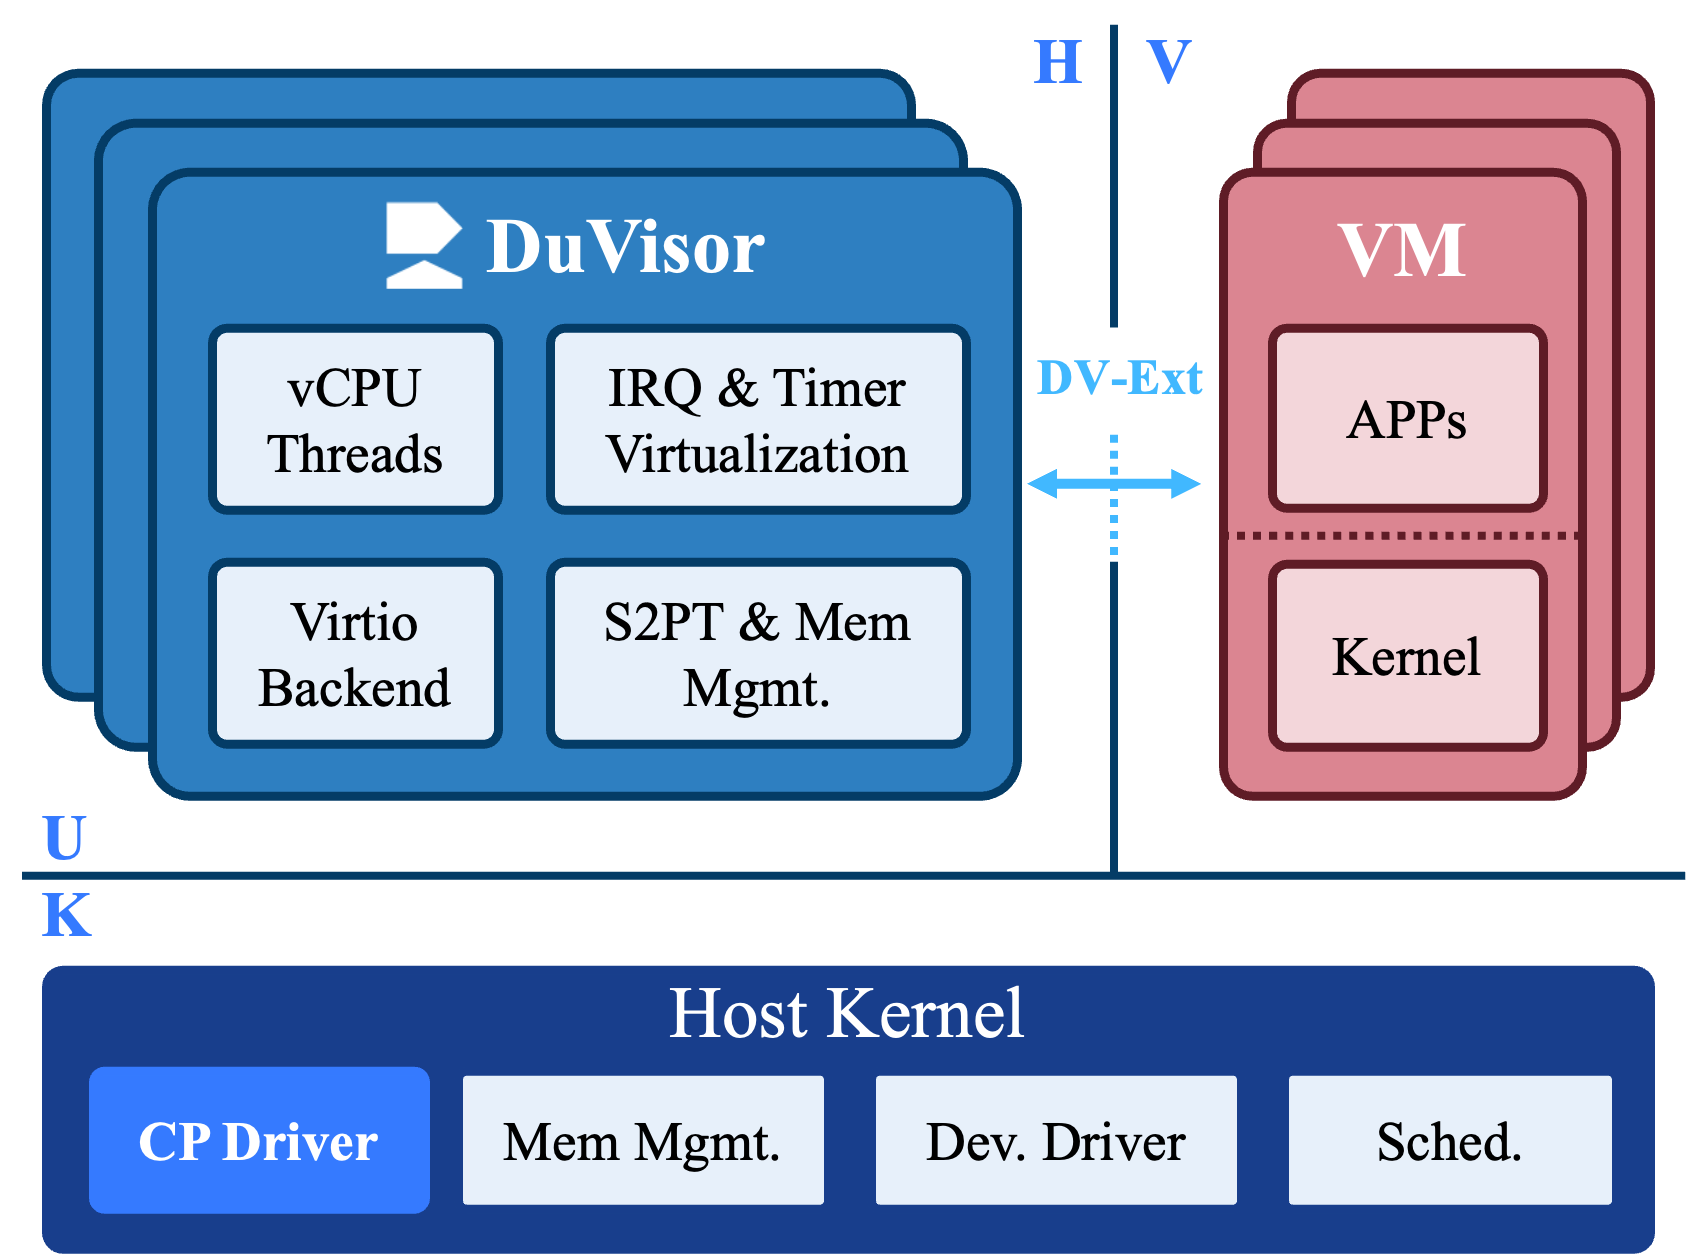
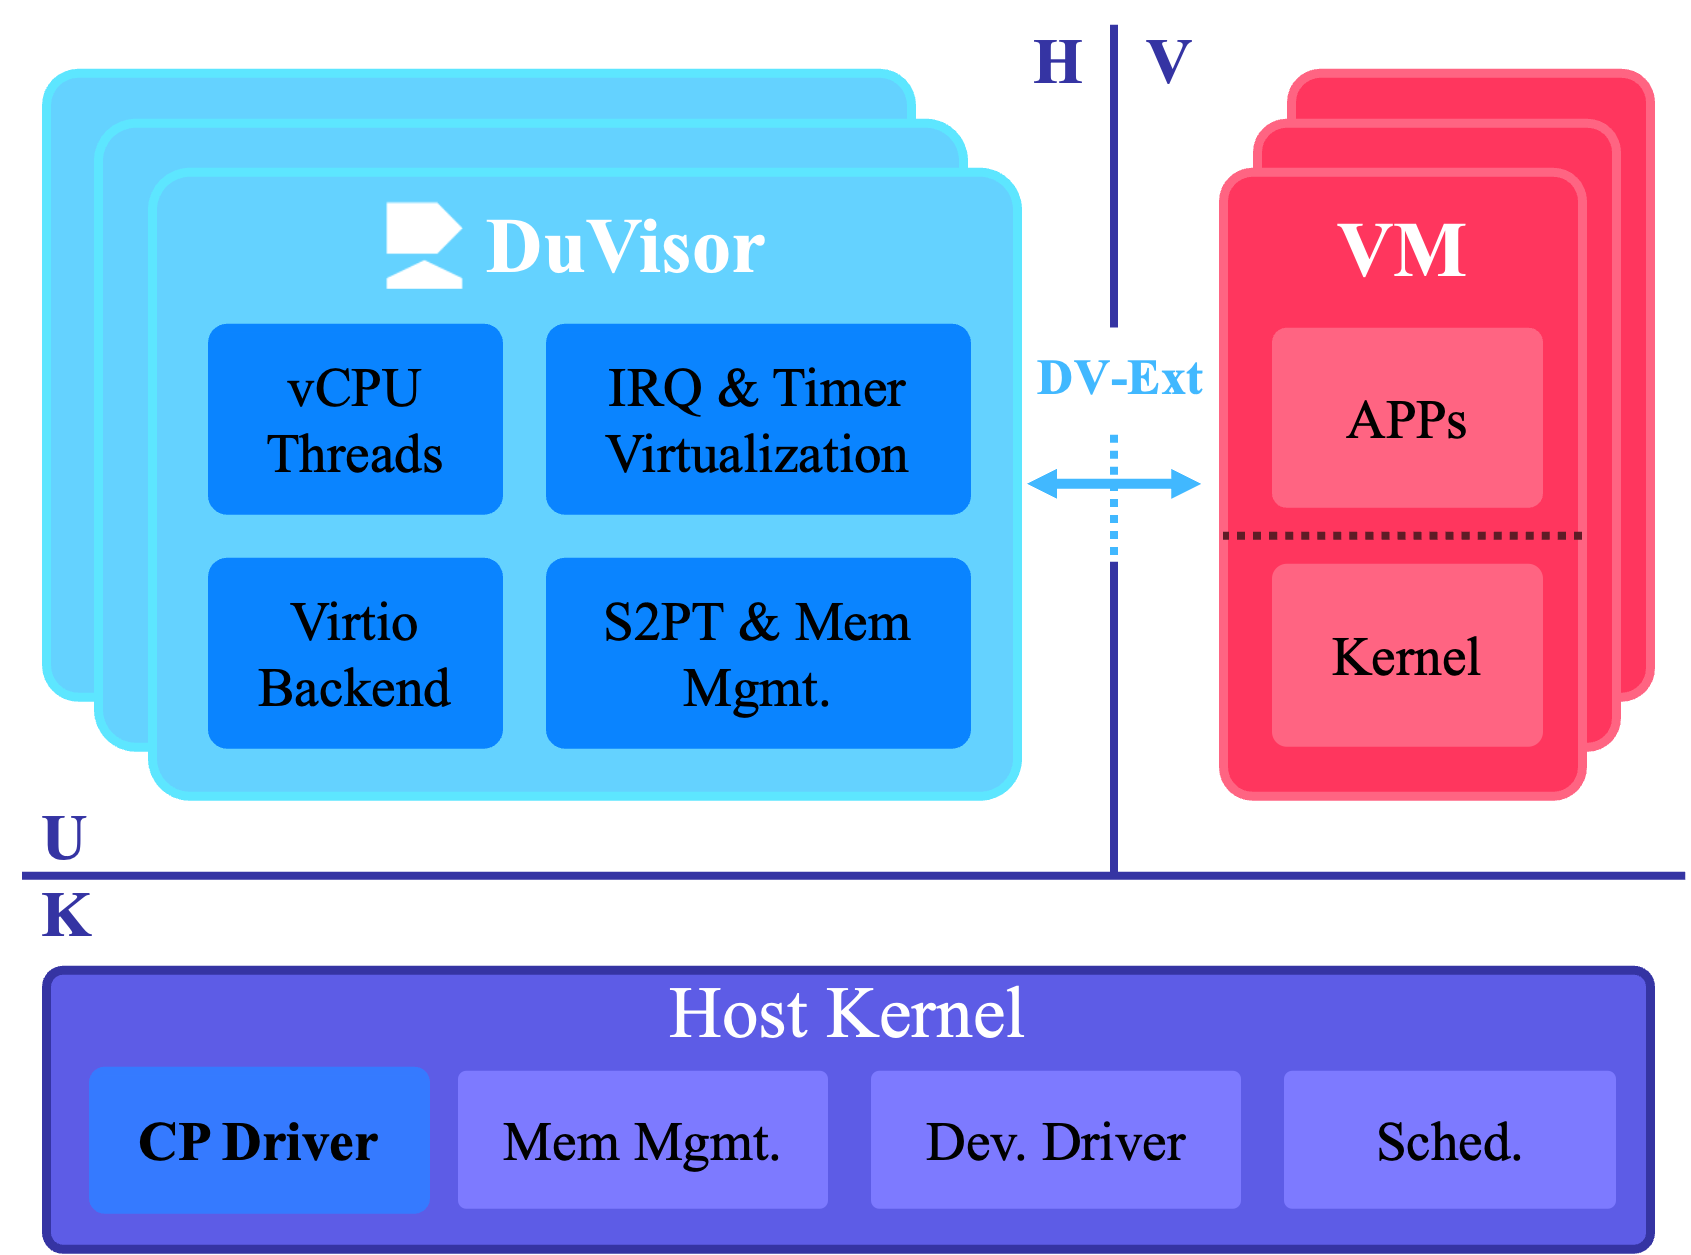
Update the color

diff --git a/README.md b/README.md
@@ -31,13 +31,13 @@ DuVisor is a user-level hypervisor with high performance based on delegated virt
 
 Compared with traditional virtualization, DuVisor offers several advantages:
 
-1. High Security: By using a deprivileged hypervisor, DuVisor eliminates the kernel's attack surface introduced by virtualization. Moreover, the one-to-one service model improves the isolation between virtual machines (VMs) and the fault tolerance of the system.
+1. **High Security:** By using a deprivileged hypervisor, DuVisor eliminates the kernel's attack surface introduced by virtualization. Moreover, the one-to-one service model improves the isolation between virtual machines (VMs) and the fault tolerance of the system.
 
-2. Near-native Performance: DuVisor eliminates redundant mode switching, thereby fully unleashing the potential performance of virtualization. The integrated design also improves cooperation between modules, making the code more efficient.
+2. **Near-native Performance:** DuVisor eliminates redundant mode switching, thereby fully unleashing the potential performance of virtualization. The integrated design also improves cooperation between modules, making the code more efficient.
 
-3. Agile Development: Because of the thriving software environment in user space, DuVisor is no longer constrained by kernel development environments and can freely choose programming languages and existing libraries. Currently, the project uses Rust to ensure security and takes advantage of its powerful testing framework to improve project quality.
+3. **Agile Development:** Because of the thriving software environment in user space, DuVisor is no longer constrained by kernel development environments and can freely choose programming languages and existing libraries. Currently, the project uses Rust to ensure security and takes advantage of its powerful testing framework to improve project quality.
 
-4. Flexible Operations and Maintenance: DuVisor can be upgraded without rebooting the host system. New features and functionalities can be deployed more quickly. Cloud services will have better fault tolerance, benefiting from DuVisor's strong isolation.
+4. **Flexible Operations and Maintenance:** DuVisor can be upgraded without rebooting the host system. New features and functionalities can be deployed more quickly. Cloud services will have better fault tolerance, benefiting from DuVisor's strong isolation.
 
 ## Duvisor's Architecture
 
